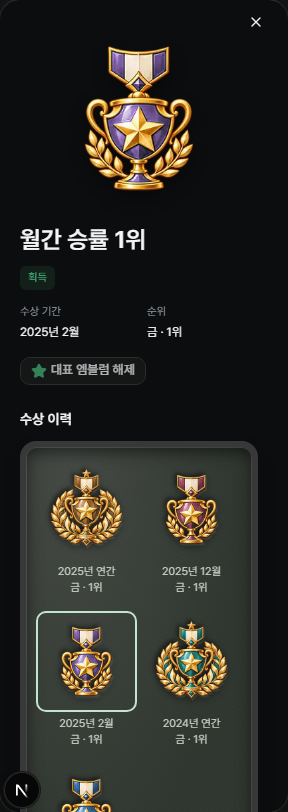
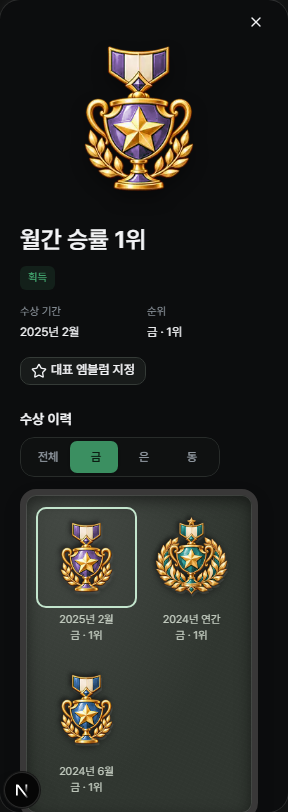
docs(emblems): record featured display and grade filtering verification

Changed region(s): [[0.0625, 0.5234, 0.9062, 1.0], [0.0938, 0.431, 0.4688, 0.4618], [0.4375, 0.8621, 0.4688, 0.8929]]

diff --git a/docs/TODO_Phase2.md b/docs/TODO_Phase2.md
@@ -11,8 +11,8 @@
 
 ## 2026-10-23 개인 엠블럼 공통 케이스
 
-- 종류별 진열: 수상형의 월별 행을 없애고 종류마다 필터 범위의 최신1개를 표시한다. 같은 종류의 전체 월간·연간 이력은 팝업 아래에서 날짜·순위와 함께 선택하며 과거 수상 대표 지정도 유지한다. 계열 정렬·연도 필터·과거 이력 선택/저장·닫기 초점 복귀·320px 터치와 기존 달성/공개 권한을 집중8건·변경 ESLint·타입으로 검증했다([최신 진열](design/personal-emblems/production-v1/award-case-desktop.png)·[이력 PC](design/personal-emblems/production-v1/award-history-desktop.png)·[이력 모바일](design/personal-emblems/production-v1/award-history-mobile.png)). 데이터·권한·스키마는 그대로이며 전체 빌드는 반복하지 않았다.
-- 프로필의 활성 게임·클랜별 영역과 개인 기록 배너가 같은 이미지 케이스를 연다. 수상형30장·달성형20장과 월12색/연6색·날짜를 적용했다. 전체/월간/연간/달성·연도 필터, 계열별 최고 달성 한 슬롯, 조건·진척·금은동·수상 기간과 관련4단계 상세를 제공한다.
+- 진열·분류: 전체/수상/달성으로 분류하고 날짜 필터를 제거했다. 수상은 종류별 보유 최고 등급(금→은→동) 중 최신1개를 표시하며 표제는 `수상`이다. 팝업에는 전체 월간·연간 이력과 전체/금/은/동 필터를 제공한다. 페이지 상단의 대표3칸은 지정·해제를 즉시 반영하고 각 대표의 상세를 연다. 등급별 전환·과거 수상 저장·대표 진열 갱신/재열기·초점 복귀·320px 터치와 기존 기간/달성/공개 권한을 집중9건·변경 ESLint·타입으로 검증했다([진열](design/personal-emblems/production-v1/award-case-desktop.png)·[이력 PC](design/personal-emblems/production-v1/award-history-desktop.png)·[이력 모바일](design/personal-emblems/production-v1/award-history-mobile.png)). 전체 빌드는 반복하지 않았다.
+- 프로필의 활성 게임·클랜별 영역과 개인 기록 배너가 같은 이미지 케이스를 연다. 수상형30장·달성형20장과 월12색/연6색·날짜를 적용했다. 전체/수상/달성 분류, 계열별 최고 달성 한 슬롯, 조건·진척·금은동·수상 기간과 관련4단계 상세를 제공한다.
 - 본인의 획득 엠블럼 최대3개를 클랜별로 저장하고 두 화면에서 공유한다. 명시적 빈 선택을 유지하며 달성 단계가 오르면 대표도 최고 단계로 바뀐다. 새 테이블은 본인·현재 소속의 읽기만 허용하고 서버가 소속·공개 범위·획득 여부를 검증한 뒤 저장한다. 멤버에게 비공개인 전적/예측 계열은 달성형 응답에서도 제외한다. 조회 거부 시 이전 기록·초기 표시와 진행 중 저장 응답을 폐기한다.
 - QA 마이그레이션 `20261023063328_clan_personal_emblem_picks.sql`과 타입을 적용했다. 격리 DB 하위 검증5건(상위 포함6건), 집중 Playwright7건 및 권한 철회 후 재조회 추가 시나리오, 변경 ESLint·타입·QA 설정 프로덕션 빌드가 통과했다. 대표 저장/화면 공유·미획득 차단·최고 단계·공개 권한·탈퇴·320/390px·닫기/포커스 복귀를 확인했다. [실제 케이스 화면](design/personal-emblems/production-v1/case-desktop.png)을 보관했다.
 - 후속 보관: 월/연 마감과 해당 기간 진행 중 정규 내전 종료 뒤 전체 부문 상위3을 한 번 확정한다. 빈 기간도 마커로 확정하고 정정·삭제·자격 설정 변경 후 수상을 보존한다. 조회 및 기존 분 단위 워커/cron이 미확정 기간을 보완한다. 통계 요약이나 자격 기준이 계산 중 바뀌면 확정을 보류하고 재시도하며 진행 중 기간은 대기열에서도 제외한다.

diff --git a/docs/01-plan/pages/14-Profile-Customization.md b/docs/01-plan/pages/14-Profile-Customization.md
@@ -6,9 +6,9 @@
 ## 2026-10-23 — 개인 엠블럼 케이스
 
 - 본인 프로필에서 활성 게임·클랜별 대표3칸과 보기 링크로 개인 엠블럼 전용 케이스 페이지를 연다. 클랜 배지 페이지와 동일한 분류·명판·진열과 핀별 상세 창을 사용한다. 클랜을 섞어 집계하지 않으며 클랜 개인 기록과 같은 케이스·조회 권한을 사용한다.
-- 수상형·달성형의 투명 이미지 50장을 전체/월간/연간/달성과 수상 연도로 필터링한다. 날짜와 월별 12색·연도별 6색 순환을 함께 표시하고, 달성형은 계열별 최고 획득 단계 1개를 진열하며 상세에서 4단계·조건·진척을 확인한다. 고유 엠블럼 이름은 화면·접근성 이름에서 제거하고 `10승 달성`, `월간 승률 1위` 같은 설명과 수상 기간·달성일을 표시한다.
+- 수상형·달성형의 투명 이미지50장을 전체/수상/달성으로 분류하고 날짜 필터는 두지 않는다. 날짜와 월별12색·연도별6색 순환을 함께 표시하고, 달성형은 계열별 최고 획득 단계1개를 진열하며 상세에서4단계·조건·진척을 확인한다. 고유 엠블럼 이름은 화면·접근성 이름에서 제거하고 `10승 달성`, `월간 승률 1위` 같은 설명과 수상 기간·달성일을 표시한다.
 - 본인만 대표 엠블럼을 최대 3개 저장하며 같은 클랜의 개인 기록 배너와 공유한다. 기존 네임카드의 `엠블럼` 프리셋 및 대표 뱃지 5개를 고르는 `뱃지 케이스`와는 별도 기능이다.
-- 수상형은 종류별로 필터 범위의 최신1개만 진열한다. 팝업에는 해당 종류의 전체 월간·연간 수상을 최신순으로 표시하고, 과거 수상을 선택해 날짜·순위 확인과 대표 지정을 할 수 있다. 달성형의 최고 단계 진열·관련4단계 상세는 유지한다.
+- 수상형은 종류별로 금→은→동의 보유 최고 등급 중 최신1개를 진열한다. 팝업에는 전체 월간·연간 수상을 최신순으로 표시하고 금/은/동 필터와 과거 수상의 날짜·순위 확인·대표 지정을 제공한다. 전용 페이지 상단에도 대표3칸을 표시해 지정·해제 결과를 바로 확인하고 각 대표의 상세를 열 수 있다.
 - 수상은 월·연 기간 마감과 해당 기간에 개설된 진행 중 정규 내전의 종료를 모두 충족한 뒤, 해당 기간 전체 대상·부문의 1~3위를 처음 확정해 영구 보관한다. 이후 기록 정정·삭제나 등재 기준·공개 설정 변경으로 수상 결과를 덮어쓰지 않는다.
 - 최초 달성일은 정정이 반영된 정규화 기록에서 각 단계 조건을 처음 통과한 시각으로 복원하며 새 기록을 쓸 때 자동으로 달성 이력을 추가한다. 원본 정정·삭제 뒤에도 최초 달성일을 보존하고 한국 시간의 날짜로 표시한다. 같은 계정의 탈퇴·재가입은 수상·달성 이력을 유지하며 계정 삭제·클랜 삭제 시 해당 이력을 연쇄 삭제한다.
 - 일반 멤버는 기존 개인 기록 공개 설정을 따른다. 경기 전적 비공개 시 참여·출전·승리·연승 달성형, 예측 적중 비공개 시 예측 달성형을 케이스·대표에서 제외한다. 수상형도 부문 공개 권한에 따라 표시를 숨기며 보관된 기록은 유지한다. 상세 기준은 [클랜 통계의 엠블럼 개편](10-Clan-Stats.md#4-개인-기록)을 따른다.

diff --git a/docs/design/personal-emblems/production-v1/README.md b/docs/design/personal-emblems/production-v1/README.md
@@ -73,15 +73,15 @@ PNG에는 날짜·번호·이름을 새기지 않는다. 기본 녹색 원본 50
 
 ## 앱의 공통 케이스 · 2026-10-23
 
-프로필에서는 활성 게임·클랜별로, 개인 기록에서는 선택 멤버의 전용 케이스 페이지를 연다. 대표3개는 클랜별로 저장해 두 화면에 공유한다. 클랜 배지 케이스와 같은 상단 분류·명판·펠트 진열·데스크톱4열/모바일2열을 사용하며 핀을 선택하면 개별 상세 창이 열린다. 전체/월간/연간/달성·연도 필터와 날짜·에나멜 색상을 적용했다. 달성형은 최고 획득 한 단계만 진열하고 상세에서 관련4단계·조건·진척을 확인한다. 미획득은 빈 홈과 미리보기로 구분한다.
+프로필에서는 활성 게임·클랜별로, 개인 기록에서는 선택 멤버의 전용 케이스 페이지를 연다. 대표3개는 클랜별로 저장해 두 화면과 케이스 페이지 상단에 공유하며 지정·해제 결과를 즉시 반영한다. 진열된 대표를 누르면 상세를 다시 연다. 클랜 배지 케이스와 같은 상단 분류·명판·펠트 진열·데스크톱4열/모바일2열을 사용한다. 분류는 전체/수상/달성이며 날짜 필터를 제거했다. 날짜·에나멜 색상과 달성형 최고 단계 진열·관련4단계 상세를 제공한다. 미획득은 빈 홈과 미리보기로 구분한다.
 
 고유 엠블럼 이름을 제거하고 `10승 달성`, `월간 승률 1위`처럼 설명만 표시한다. 수상 기간과 한국 시간 기준 최초 달성일을 함께 확인한다.
 
-수상형은 월별 행으로 늘어놓지 않고 종류별로 필터 범위의 가장 최근1개만 진열한다. 누르면 같은 종류의 전체 월간·연간 수상을 최신순으로 확인하며, 바깥의 연도 필터에 없는 과거 수상도 선택할 수 있다. 선택한 이력의 큰 그림·기간·순위·대표 지정이 함께 바뀐다.
+수상형은 종류별로 금→은→동 순의 보유 최고 등급을 먼저 고르고 같은 등급의 가장 최근1개를 진열한다. 누르면 전체 월간·연간 수상을 최신순으로 확인하며 전체/금/은/동으로 거를 수 있다. 선택한 이력의 큰 그림·기간·순위·대표 지정이 함께 바뀐다.
 
 ![종류별 최신 수상 진열](award-case-desktop.png)
 
-[전체 수상 이력 PC](award-history-desktop.png) · [전체 수상 이력 모바일](award-history-mobile.png)
+[대표 진열·수상 모바일](award-case-mobile.png) · [전체 수상 이력 PC](award-history-desktop.png) · [등급 필터·모바일](award-history-mobile.png)
 
 ![개인 엠블럼 케이스 실제 QA 화면](case-desktop.png)
 

diff --git a/docs/TODO_LOG.md b/docs/TODO_LOG.md
@@ -1,5 +1,9 @@
 # 구현 진행도 — 작업 세션 로그
 
+### 2026-10-23 — 엠블럼 분류·등급 필터와 대표 진열
+
+- 전체/수상/달성 분류로 단순화하고 날짜 필터를 제거했다. 종류별 보유 최고 등급 중 최신 수상을 표시하며 팝업 이력은 금/은/동으로 거른다. 케이스 상단 대표3칸에 지정·해제를 즉시 반영하고 대표 상세를 다시 연다([규칙·화면](design/personal-emblems/production-v1/README.md)). 집중9건·변경 린트·타입과 모바일 터치를 검증했다.
+
 ### 2026-10-23 — 개인 엠블럼 종류별 최신 진열·전체 이력
 
 - 월별 행을 종류별 최신1개 진열로 바꾸고 같은 종류의 모든 월간·연간 수상을 팝업 안에 모았다. 과거 수상의 날짜·순위 확인과 대표 지정을 유지한다. 집중8건·린트·타입과 모바일 터치를 검증했다([규칙·화면](design/personal-emblems/production-v1/README.md)).
